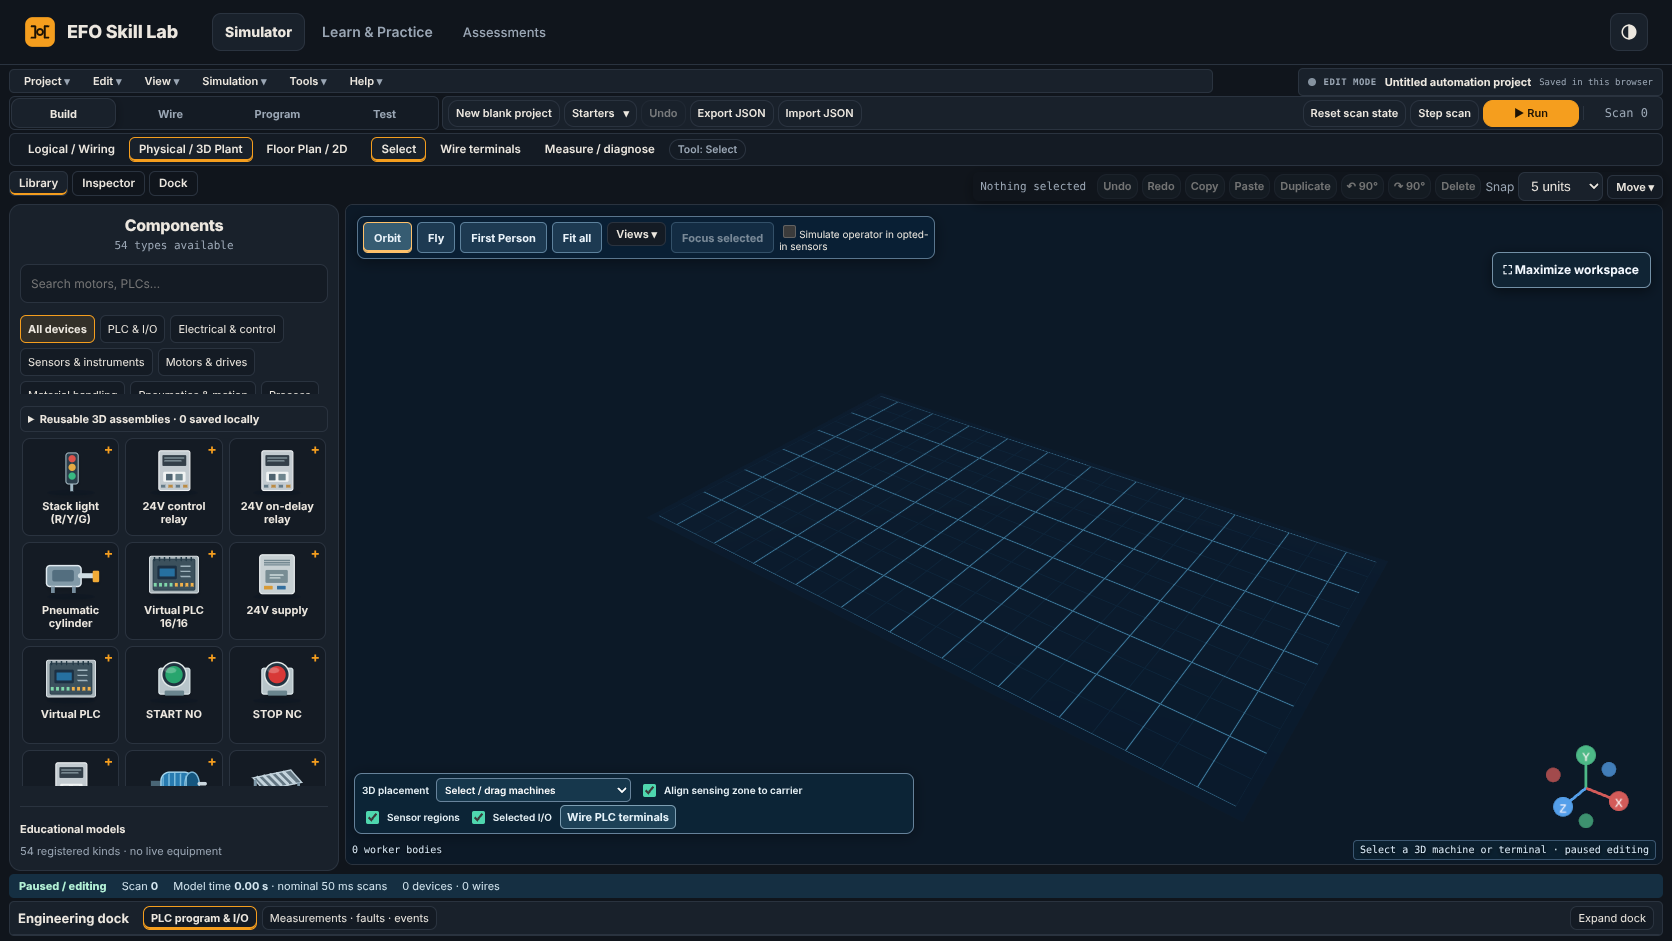
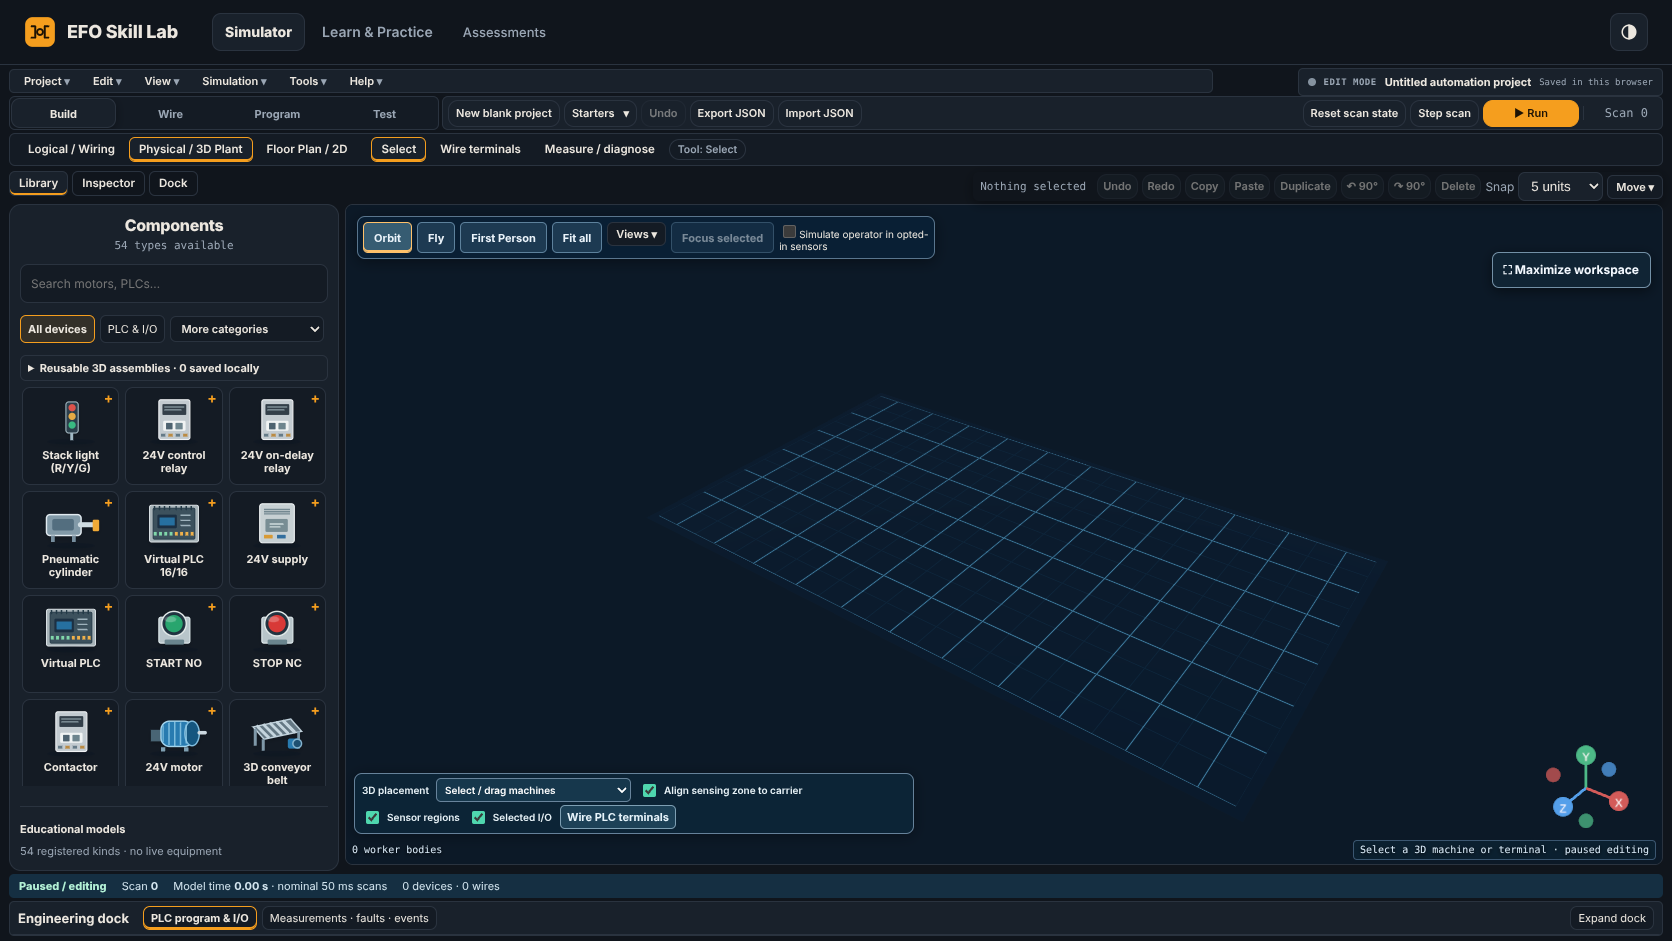
UX7: extra device categories move into a dropdown (no clipped chip rows)
Claude-Session: https://claude.ai/code/session_014x3j6J9VxaZvqCfrs6vigA

Changed region(s): [[0.0, 0.339, 0.1866, 0.8629]]

diff --git a/src/app/SandboxPage.tsx b/src/app/SandboxPage.tsx
@@ -866,10 +866,18 @@ export function SandboxPage({ scenario: request }: { scenario?: ScenarioRequest 
               placeholder="Search motors, PLCs…" aria-label="Search component library" />
           </label>
           <div className="p5-device-families" role="group" aria-label="Industrial device families">
-            {DEVICE_FAMILIES.filter(f=>availableFamilies.includes(f.id)).map(f=>
+            {DEVICE_FAMILIES.filter(f=>availableFamilies.includes(f.id)).slice(0,2).map(f=>
               <button key={f.id} type="button" data-p5-category={f.id}
                 aria-pressed={libraryFamily===f.id} onClick={()=>setLibraryFamily(f.id)}>
                 {f.label}</button>)}
+            {DEVICE_FAMILIES.filter(f=>availableFamilies.includes(f.id)).length>2 &&
+              <select className="p5-family-more" data-p5-category-more aria-label="More device categories"
+                data-active={DEVICE_FAMILIES.filter(f=>availableFamilies.includes(f.id)).slice(2).some(f=>f.id===libraryFamily)?'true':'false'}
+                value={DEVICE_FAMILIES.filter(f=>availableFamilies.includes(f.id)).slice(2).some(f=>f.id===libraryFamily)?libraryFamily:''}
+                onChange={e=>{if(e.target.value)setLibraryFamily(e.target.value as DeviceFamily);}}>
+                <option value="">More categories</option>
+                {DEVICE_FAMILIES.filter(f=>availableFamilies.includes(f.id)).slice(2).map(f=><option key={f.id} value={f.id}>{f.label}</option>)}
+              </select>}
           </div>
           <p className="sandbox-library-help">Drag an available device onto the 3D floor or 2D plan,
             or click to place it. The registry determines what really works. Pause to edit.</p>

diff --git a/src/app/ux7-reference-layout.css b/src/app/ux7-reference-layout.css
@@ -76,7 +76,7 @@
     position:absolute; width:1px; height:1px; overflow:hidden; clip:rect(0 0 0 0); white-space:nowrap;
   }
   .efo-ux2-shell .sandbox-library-search { margin-bottom:8px; }
-  .efo-ux2-shell .p5-device-families { flex-wrap:wrap; gap:5px; margin-bottom:8px; }
+  .efo-ux2-shell .p5-device-families { flex-wrap:wrap; gap:5px; margin-bottom:8px; align-items:center; }
   .efo-ux2-shell .p5-device-families button { white-space:nowrap; }
   .efo-ux2-shell .p5-organized .sandbox-palette-list,
   .efo-ux2-shell .sandbox-palette .sandbox-palette-list { grid-template-columns:repeat(3,minmax(0,1fr)); gap:6px; }
@@ -89,3 +89,9 @@
   .efo-ux2-shell .sandbox-palette .ux2-equipment-name { text-align:center; }
   .efo-ux2-shell .sandbox-palette .ux2-equipment-name strong { font-size:11px; line-height:1.2; }
 }
+
+.p5-family-more {
+  font:600 11px var(--body); color:var(--ink); background:var(--surface-2); border:1px solid var(--line);
+  border-radius:6px; padding:4px 6px; max-width:100%;
+}
+.p5-family-more[data-active="true"] { border-color:var(--accent); box-shadow:inset 0 -2px var(--accent); }
